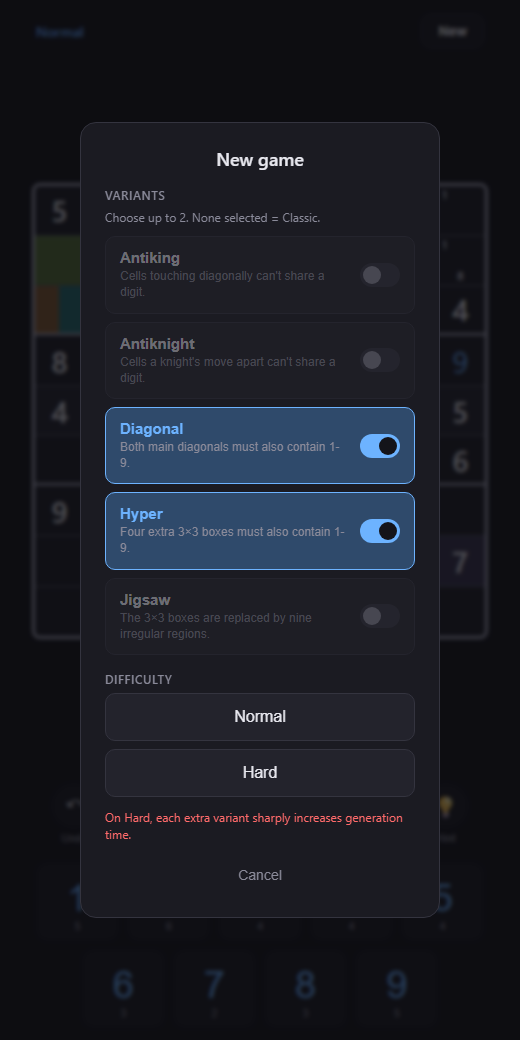
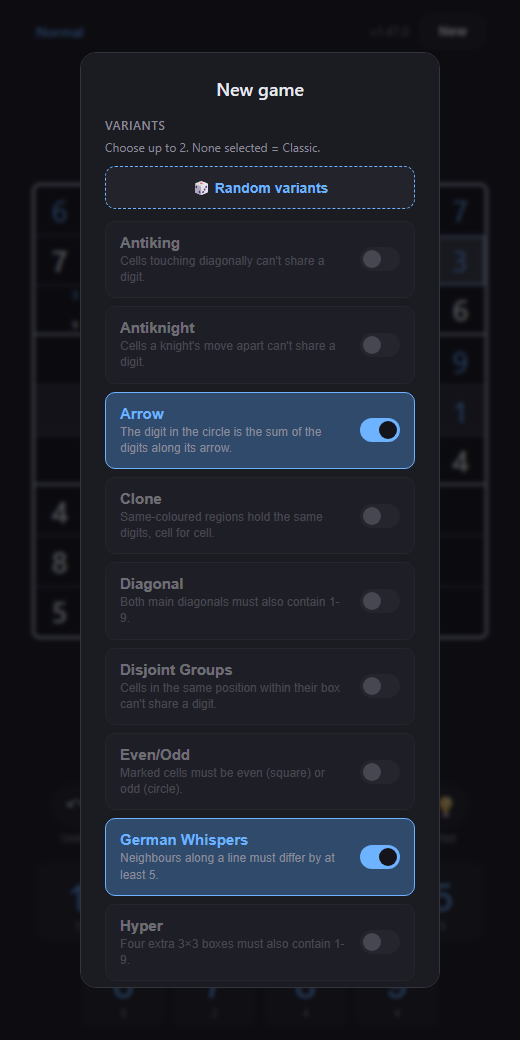
docs(promo): screenshotovi osvjezeni na v1.47.0, harness prestao duplicirati markup
Screenshotovi su bili iz v1.23.0 i pokazivali igru od prije 24 izdanja.
Prije rendera je trebalo popraviti sam harness, koji je bio zastario na
dva nacina i oba bi dala krivu sliku:

1. Imao je VLASTITU kopiju <body>-ja iz index.html, pa je nabrajao 6
   varijanti dok ih igra ima 20 - screenshot menija bi pokazao listu od
   prosle godine. Sada povlaci index.html i ubacuje njegov body, pa vise
   ne moze odlutati.
2. Seedao je stanje u formatu od prije clues objekta (regions na vrhu),
   pa bi svaka oznaka novija od jigsawa nedostajala - Killer ploca bi
   ispala bez ijednog kaveza. Sada seeda cijeli clues.

Novi set bira po RENDER KANALU, ne po varijanti - varijanti je 20 i ne
stanu na slike, a kanala je pet i oni se vide:

  01-killer        kavez (obrub + zbroj u celiji)
  02-variants      meni, dvije varijante upaljene da se vidi odabir
  03-littlekiller  oznaka izvan mreze, sve cetiri strane
  04-lines         linija preko celija + legenda (Thermo + Renban)
  05-jigsaw        geometrija regija

Maknuti 01-jigsaw (preimenovan u 05), 03-diagonal i 04-hyper - Diagonal i
Hyper su najslabije reprezentativni od 20 varijanti.

Cover se NE regenerira: nabraja tri varijante uz "+ more", pa ne
zastarijeva kad se doda nova. Zapisano u README.

U README su zapisane i dvije zamke koje su me kostale rundu: --screenshot
trazi apsolutni Windows put (relativan tiho padne), i za ?menu= treba
birati varijante koje su u kadru, jer je lista abecedna i duza od ekrana.

diff --git a/promo/shot-harness.html b/promo/shot-harness.html
@@ -8,140 +8,58 @@
     />
     <meta name="theme-color" content="#1b1b22" />
     <link rel="stylesheet" href="../style.css" />
-    <title>Sudoku</title>
+    <title>Sudoku - screenshot harness</title>
   </head>
   <body>
-    <div id="app">
-      <header class="topbar">
-        <div class="status">
-          <span class="status-item" id="difficulty-label">Normal</span>
-          <span class="status-chip hidden" id="technique-hint"></span>
-        </div>
-        <span class="app-version" id="app-version"></span>
-        <button class="icon-btn" id="new-btn" aria-label="New game">New</button>
-      </header>
-      <div id="hint-banner" class="hint-banner hidden">
-        <span class="hint-text" id="hint-text"></span>
-        <button class="hint-close" id="hint-close" aria-label="Close">×</button>
-      </div>
-      <main>
-        <div class="board-wrap">
-          <div id="board" class="board" role="grid" aria-label="Sudoku board"></div>
-          <div id="win-overlay" class="win-overlay hidden">
-            <div class="win-card">
-              <div class="win-title">Solved!</div>
-              <div class="win-sub" id="win-stats"></div>
-              <button class="primary-btn" id="win-new-btn">New game</button>
-            </div>
-          </div>
-        </div>
-        <div class="controls">
-          <div class="action-row">
-            <button class="action-btn" id="undo-btn" aria-label="Undo">
-              <span class="action-icon">↶</span><span class="action-label">Undo</span>
-            </button>
-            <button class="action-btn" id="erase-btn" aria-label="Erase">
-              <span class="action-icon">⌫</span><span class="action-label">Erase</span>
-            </button>
-            <button class="action-btn" id="notes-btn" aria-label="Notes">
-              <span class="action-icon">✎</span><span class="action-label">Notes</span>
-              <span class="notes-state" id="notes-state">Off</span>
-            </button>
-            <button class="action-btn" id="color-btn" aria-label="Color">
-              <span class="action-icon">🎨</span><span class="action-label">Color</span>
-            </button>
-            <button class="action-btn" id="hint-btn" aria-label="Hint">
-              <span class="action-icon">💡</span><span class="action-label">Hint</span>
-            </button>
-          </div>
-          <div class="numpad" id="numpad"></div>
-          <div class="palette hidden" id="palette"></div>
-        </div>
-      </main>
-    </div>
+    <!-- =====================================================================
+         Screenshot harness za promo/itch/*.png. Vidi promo/itch/README.md.
 
-    <div id="menu-overlay" class="menu-overlay hidden">
-      <div class="menu-card">
-        <div class="menu-title">New game</div>
-        <div class="menu-label">Variants</div>
-        <div class="menu-sublabel">Choose up to 2. None selected = Classic.</div>
-        <div class="menu-variant" id="menu-variant">
-          <button class="variant-row" data-variant="antiking">
-            <span class="variant-info"
-              ><span class="variant-name">Antiking</span
-              ><span class="variant-desc"
-                >Cells touching diagonally can't share a digit.</span
-              ></span
-            ><span class="variant-toggle" aria-hidden="true"></span>
-          </button>
-          <button class="variant-row" data-variant="antiknight">
-            <span class="variant-info"
-              ><span class="variant-name">Antiknight</span
-              ><span class="variant-desc"
-                >Cells a knight's move apart can't share a digit.</span
-              ></span
-            ><span class="variant-toggle" aria-hidden="true"></span>
-          </button>
-          <button class="variant-row" data-variant="x">
-            <span class="variant-info"
-              ><span class="variant-name">Diagonal</span
-              ><span class="variant-desc">Both main diagonals must also contain 1-9.</span></span
-            ><span class="variant-toggle" aria-hidden="true"></span>
-          </button>
-          <button class="variant-row" data-variant="hyper">
-            <span class="variant-info"
-              ><span class="variant-name">Hyper</span
-              ><span class="variant-desc">Four extra 3×3 boxes must also contain 1-9.</span></span
-            ><span class="variant-toggle" aria-hidden="true"></span>
-          </button>
-          <button class="variant-row" data-variant="jigsaw">
-            <span class="variant-info"
-              ><span class="variant-name">Jigsaw</span
-              ><span class="variant-desc"
-                >The 3×3 boxes are replaced by nine irregular regions.</span
-              ></span
-            ><span class="variant-toggle" aria-hidden="true"></span>
-          </button>
-        </div>
-        <div class="menu-label">Difficulty</div>
-        <div class="menu-diff" id="menu-diff">
-          <button class="diff-btn" data-diff="normal">Normal</button>
-          <button class="diff-btn" data-diff="hard">Hard</button>
-        </div>
-        <div class="menu-hint hidden" id="variant-hint">
-          On Hard, each extra variant sharply increases generation time.
-        </div>
-        <button class="ghost-btn" id="menu-cancel">Cancel</button>
-      </div>
-    </div>
+         Markup se NE duplicira - povlaci se iz pravog index.html i ubacuje
+         u ovu stranicu. Prijasnja verzija je imala vlastitu kopiju <body>-ja
+         i zato je istrunula: nabrajala je 6 varijanti dok ih je igra imala
+         20, pa je screenshot menija pokazivao igru od prije godinu dana.
+         Sve sto ovdje treba stajati je SEED stanja, ne UI.
 
-    <div id="loading-overlay" class="menu-overlay hidden">
-      <div class="loading-card">
-        <div class="spinner"></div>
-        <div class="loading-text">Generating…</div>
-        <button class="ghost-btn" id="gen-cancel">Cancel</button>
-      </div>
-    </div>
-
-    <script src="../solver.js"></script>
-    <script src="../sudoku.js"></script>
-    <!-- SCREENSHOT seeder: synchronously generate a real puzzle for the requested
-         variants and seed localStorage with a plausible mid-solve state (correct
-         blue user entries from the solution, pencil notes, colors, a selection),
-         so app.js init() loads and renders it directly - no worker, no timing. -->
+         Parametri:
+           ?v=killer,thermo   varijante partije u tijeku (prazno = classic)
+           ?menu=killer,x     umjesto partije otvori New game meni i ukljuci
+                              te varijante (koristi pravi klik, pa se vidi i
+                              upozorenje koje app sam prikaze na dvije)
+         ===================================================================== -->
     <script>
-      (function () {
-        const variants = (new URLSearchParams(location.search).get("v") || "")
-          .split(",")
-          .filter(Boolean);
+      (async () => {
+        const qs = new URLSearchParams(location.search);
+
+        // 1. Pravi DOM iz index.html. innerHTML NE izvrsava <script>, pa se
+        //    engine ucitava rucno ispod (i s tocnim relativnim putanjama).
+        const html = await (await fetch("../index.html")).text();
+        const doc = new DOMParser().parseFromString(html, "text/html");
+        doc.body.querySelectorAll("script").forEach((s) => s.remove());
+        document.body.insertAdjacentHTML("afterbegin", doc.body.innerHTML);
+
+        const load = (src) =>
+          new Promise((res, rej) => {
+            const s = document.createElement("script");
+            s.src = src;
+            s.onload = res;
+            s.onerror = rej;
+            document.body.appendChild(s);
+          });
+
+        // metrics.js se NAMJERNO ne ucitava - render za store ne salje evente.
+        await load("../solver.js");
+        await load("../sudoku.js");
+
+        // 2. Prava slagalica + uvjerljivo stanje usred rjesavanja. Sinkrono
+        //    (bez workera), pa app.js zatekne gotovo stanje i samo ga iscrta.
+        const variants = (qs.get("v") || "").split(",").filter(Boolean);
         let g;
         try {
           g = Sudoku.generate("normal", variants);
         } catch (e) {
           g = Sudoku.generate("normal", []);
         }
-        const puzzle = g.puzzle,
-          solution = g.solution;
+        const { puzzle, solution } = g;
         const values = puzzle.slice();
         const notes = Array.from({ length: 81 }, () => []);
         const colors = Array.from({ length: 81 }, () => []);
@@ -152,9 +70,9 @@
           for (let k = 0; k < arr.length && out.length < n; k += step) out.push(arr[k]);
           return out;
         };
-        // Correct user entries (render blue, never red).
+        // Tocni upisi (renderiraju se plavo, nikad crveno).
         pick(empty, 11, 3).forEach((i) => (values[i] = solution[i]));
-        // Classic candidates for realistic pencil marks.
+        // Klasicni kandidati za uvjerljive biljeske.
         const cands = (i) => {
           const r = Math.floor(i / 9),
             c = i % 9,
@@ -173,14 +91,18 @@
         };
         const stillEmpty = empty.filter((i) => values[i] === 0);
         pick(stillEmpty, 5, 2).forEach((i) => (notes[i] = cands(i).slice(0, 3)));
-        // A couple of colored cells (one plain given/user, one two-color stack).
         if (stillEmpty.length > 3) colors[stillEmpty[3]] = [4];
         if (stillEmpty.length > 7) colors[stillEmpty[7]] = [2, 6];
-        // Selection on a central filled cell -> row/col/box + same-digit highlight.
+        // Odabir na sredisnjoj popunjenoj celiji -> highlight retka/stupca/kutije.
         const filled = [];
         for (let i = 0; i < 81; i++) if (values[i]) filled.push(i);
         const at = (i) => (filled.includes(i) ? i : null);
         const sel = at(40) ?? at(31) ?? at(49) ?? filled[Math.floor(filled.length / 2)];
+
+        // `clues` mora ici cijeli i pod tim imenom. Stara verzija harnessa je
+        // spremala samo `regions` na vrhu stanja (oblik od prije clues objekta),
+        // pa bi svaka oznaka novija od jigsawa - kavezi, tube, linije, pojas -
+        // jednostavno nedostajala na slici.
         const state = {
           puzzle,
           solution,
@@ -188,8 +110,8 @@
           notes,
           colors,
           difficulty: "normal",
-          variants,
-          regions: g.regions || null,
+          variants: g.variants || variants,
+          clues: g.clues || null,
           techniques: g.techniques || [],
           gameId: "",
           playMs: 0,
@@ -201,30 +123,41 @@
           activeNote: null,
           colorMode: false,
           solved: false,
+          startPending: false,
         };
         try {
           localStorage.setItem("sudoku-game-v2", JSON.stringify(state));
-        } catch (e) {}
-      })();
-    </script>
-    <script src="../app.js"></script>
-    <!-- SCREENSHOT menu mode (?menu=x,hyper): open the REAL New game menu and
-         click the requested variant rows, so the app's own syncVariantButtons
-         applies the red "warn" generation note when two are selected. -->
-    <script>
-      (function () {
-        const menu = new URLSearchParams(location.search).get("menu");
-        if (!menu) return;
-        const vs = menu.split(",").filter(Boolean);
-        window.addEventListener("load", function () {
-          setTimeout(function () {
-            document.getElementById("new-btn").click();
-            vs.forEach(function (v) {
+        } catch (e) {
+          /* screenshot bez seeda je i dalje bolji od pada */
+        }
+
+        // 3. Igra. init() se u app.js zove odmah, a DOM je vec tu.
+        await load("../app.js");
+
+        // Verzija se u igri cita iz ./package.json - odavde bi to bio 404, pa
+        // se upise rucno da slika nosi tocnu oznaku builda.
+        try {
+          const p = await (await fetch("../package.json")).json();
+          const el = document.getElementById("app-version");
+          if (el && p.version) el.textContent = "v" + p.version;
+        } catch (e) {
+          /* bez verzije slika je i dalje upotrebljiva */
+        }
+
+        // 4. Meni mod: otvori PRAVI New game meni i klikni tražene varijante,
+        //    pa se vidi i upozorenje koje app sam doda kad su dvije aktivne.
+        const menu = qs.get("menu");
+        if (menu) {
+          document.getElementById("new-btn").click();
+          menu
+            .split(",")
+            .filter(Boolean)
+            .forEach((v) => {
               const b = document.querySelector('.variant-row[data-variant="' + v + '"]');
               if (b) b.click();
             });
-          }, 300);
-        });
+        }
+        document.documentElement.dataset.shotReady = "1";
       })();
     </script>
   </body>

diff --git a/promo/itch/README.md b/promo/itch/README.md
@@ -1,22 +1,36 @@
 # itch.io store assets
 
-Materijal za itch Project page (https://vatroslav.itch.io/sudoku-variants). Generiran iz
-builda **v1.23.0**. Screenshotovi su iz stvarne igre (headless render, portrait 520x1040).
+Materijal za itch Project page (https://vatroslav.itch.io/sudoku-variants). Screenshotovi su
+iz builda **v1.47.0** (headless render, portrait 520x1040); cover je stariji ali i dalje točan.
 
 ## Fajlovi
 
 - `cover.png` - itch cover (630x500): naslov + tagline + pravi 9x9 grid u paleti igre
   (X-dijagonale poravnate s gridom, hyper-tint, odabrana ćelija). Generira ga `../make-cover.html`.
-- `01-jigsaw.png` - Jigsaw partija u tijeku: nepravilne regije, plavi upisi, bilješke, boje.
-- `02-variants.png` - New game meni: lista varijanti (Diagonal + Hyper uključeni), Normal/Hard.
-- `03-diagonal.png` - Diagonal partija: plave X-dijagonale + play stanje.
-- `04-hyper.png` - Hyper partija: četiri dodatna prozora (ljubičasti tint) + play stanje.
+  Nabraja tri varijante uz **"+ more"**, pa ne zastarijeva kad se doda nova - ne treba ga
+  regenerirati uz svaki release.
+- `01-killer.png` - Killer partija: kavezi sa zbrojevima, plavi upisi, bilješke, boje.
+- `02-variants.png` - New game meni: cijela lista varijanti, dvije uključene (Arrow + German
+  Whispers) da se vidi kako izgleda odabir.
+- `03-littlekiller.png` - Little Killer: pojas oznaka izvan mreže na sve četiri strane.
+- `04-lines.png` - Thermo + Renban: dvije linijske varijante odjednom, s legendom ispod ploče.
+- `05-jigsaw.png` - Jigsaw: nepravilne regije umjesto kvadrata.
 - `description.html` - tekst store stranice (paste-ready HTML za Description). Izvor istine;
   držati ažurnim po verziji (oznaka u komentaru fajla).
 
-Screenshotovi su iz **stvarne igre** - `../shot-harness.html` sinkrono generira pravu slagalicu
-(`Sudoku.generate`) i seeda `localStorage` s uvjerljivim mid-solve stanjem (točni plavi upisi iz
+**Izbor motiva nije proizvoljan**: svaki screenshot pokriva jedan RENDER KANAL, ne jednu
+varijantu - kavez (obrub + zbroj u ćeliji), meni, oznaka izvan mreže, linija preko ćelija,
+i geometrija regija. Varijanti je 20 i ne stanu na slike; kanala je pet i oni se vide.
+
+Screenshotovi su iz **stvarne igre** - `../shot-harness.html` generira pravu slagalicu
+(`Sudoku.generate`) i seeda `localStorage` uvjerljivim mid-solve stanjem (točni plavi upisi iz
 rješenja, pencil bilješke, boje, odabir), pa `app.js` to učita i renderira. Nema workera ni timinga.
+
+**Harness NE duplicira markup** - povlači `<body>` iz pravog `index.html`. Prije je imao
+vlastitu kopiju i zato je istrunuo: nabrajao je 6 varijanti dok ih je igra imala 20, a stanje
+je seedao u formatu od prije `clues` objekta, pa bi Killer ploča ispala **bez ijednog kaveza**.
+Ako harness ikad opet treba znati nešto o UI-ju, to je znak da se ta stvar čita iz `index.html`,
+ne da se prepiše ovamo.
 
 ## Regeneracija (cover + screenshotovi)
 
@@ -28,11 +42,20 @@ msedge --headless=new --disable-gpu --hide-scrollbars --window-size=630,500 \
   --virtual-time-budget=4000 --screenshot=promo/itch/cover.png \
   http://localhost:PORT/promo/make-cover.html
 
-# screenshot varijante (portrait 520x1040); ?v= je prazan (classic), x, hyper, jigsaw...
+# screenshot varijante (portrait 520x1040); ?v= je prazan (classic), killer, jigsaw,
+# thermo,renban ... a ?menu= umjesto partije otvori meni s tim varijantama upaljenima
 msedge --headless=new --disable-gpu --hide-scrollbars --window-size=520,1040 \
-  --virtual-time-budget=10000 --screenshot=promo/itch/01-jigsaw.png \
-  "http://localhost:PORT/promo/shot-harness.html?v=jigsaw"
+  --virtual-time-budget=15000 --screenshot=C:/apsolutni/put/promo/itch/01-killer.png \
+  "http://localhost:PORT/promo/shot-harness.html?v=killer"
 ```
+
+Dvije stvari koje se lako promaše:
+
+- **`--screenshot` traži APSOLUTNI Windows put.** Relativan tiho padne s "cannot find the
+  path specified" i file se ne napiše.
+- **Za `?menu=` biraj varijante koje su u kadru.** Lista je abecedna i duža od ekrana, pa
+  npr. `killer` i `littlekiller` budu upaljeni ispod ruba slike - vidi se lista, ali ne i
+  da je išta odabrano.
 
 (`make-cover.html` je samostalan pa radi i preko `file:///`; `shot-harness.html` treba
 posluženo jer učitava `../app.js` i drugove.)
@@ -50,7 +73,8 @@ fajlove: cover je gore u formi, screenshotovi u **Screenshots** sekciji.
 - [ ] **Embed**: Manually set size, viewport **450x800** (portrait ~9:16); Mobile friendly ON,
       Fullscreen button ON, Automatically start OFF, scrollbars OFF
 - [ ] **Cover image**: `cover.png`
-- [ ] **Screenshots**: `01-jigsaw.png`, `02-variants.png`, `03-diagonal.png`, `04-hyper.png`
+- [ ] **Screenshots**: `01-killer.png`, `02-variants.png`, `03-littlekiller.png`, `04-lines.png`,
+      `05-jigsaw.png`
 - [ ] **Genre**: Puzzle
 - [ ] **Tags**: sudoku, puzzle, logic, minimalist, singleplayer, mobile, offline, pwa, numbers, brain-training
 - [ ] **AI generation disclosure**: odgovori po Vatrinoj procjeni (kod je AI-asistiran; grafika/zvuk/tekst nisu gen-AI)
